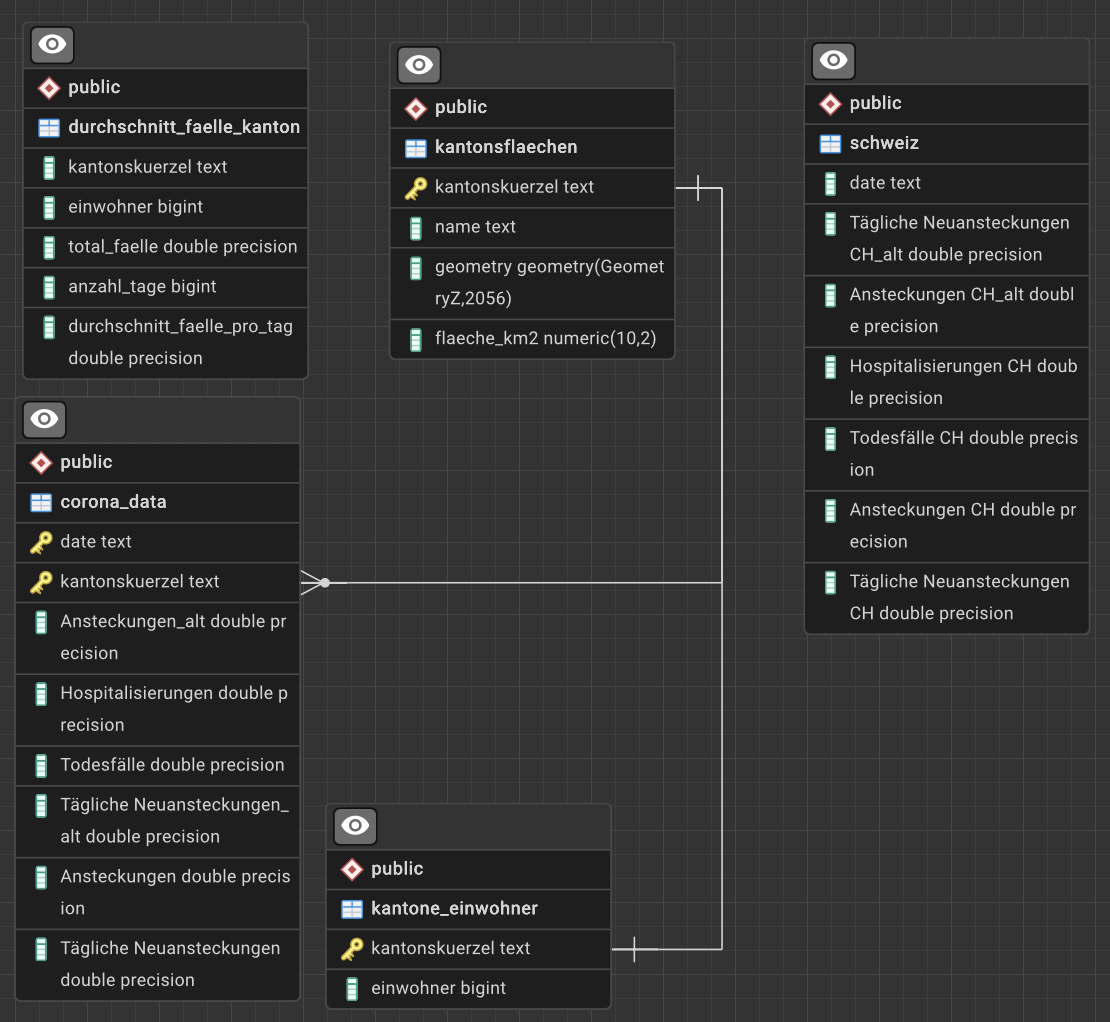
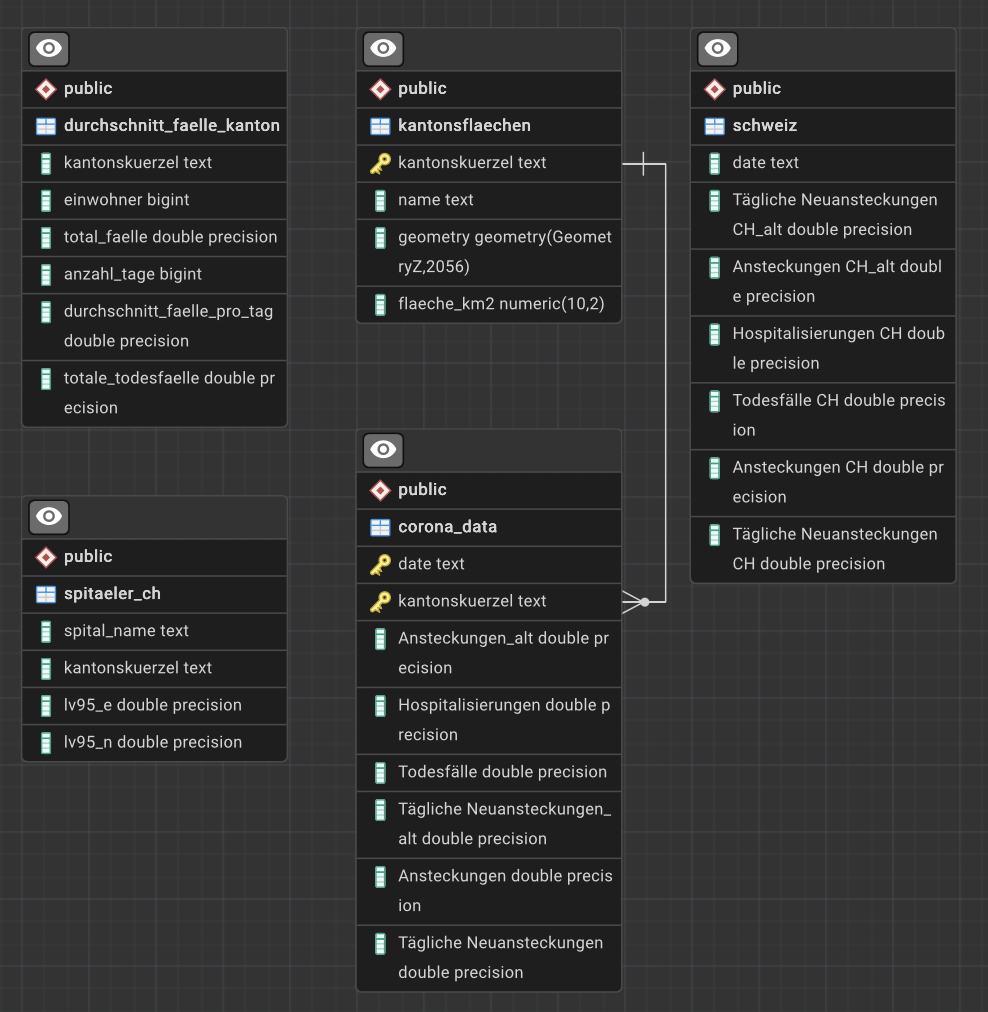
Bilder / GIFs in GitHub Page einfügen

diff --git a/client/src/components/Header/Header_display.jsx b/client/src/components/Header/Header_display.jsx
@@ -1,5 +1,6 @@
 import {useState} from "react";
 import IconButton from '@mui/material/IconButton';
+import CloseIcon from "@mui/icons-material/Close";
 import InfoIcon from "@mui/icons-material/Info";
 import HomeIcon from "@mui/icons-material/Home";
 import Stack from '@mui/material/Stack';
@@ -93,41 +94,71 @@ function Header({thema, setThema, info, setInfo, kanton, setKanton}) {
           </IconButton>
         </Tooltip>
 
-        <Dialog open={info} onClose={() => setInfo(false)}>
+        <Dialog open={info}>
           <DialogTitle>
             <h3>Informationen zur Webseite</h3>
+            <IconButton
+              aria-label="close"
+              onClick={() => setInfo(false)}
+              sx={{
+                position: "absolute",
+                right: 8,
+                top: 8,
+                color: "grey",
+              }}>
+              <CloseIcon />
+            </IconButton>
           </DialogTitle>
           <DialogContent>
             <Typography>
               Autorinnen: Aurelia Weickgenannt und Pascal Schmid
               <br />
               <br />
-              Fokusfrage: 
+              Fokusfrage: Wie hat sich die Coronapandemie in der Schweiz ausgebreitet bzw. verlaufen?
               <br />
               <br />
-              Weitere Informationen siehe README.md file.
+              <a
+                href="https://github.com/Aurelia-ew/4230-ProjektGeoinformatik_CoronaDashboard/tree/main"
+                target="_blank"
+                rel="noopener noreferrer">
+                Hier gehts zum GitHub Repository
+              </a>
+              <br />
+              Die Instalationsanleitung für die Webseite und alle zugehörigen Tools ist im Readme im GitHub Repository zu finden.
               <br />
               <br />
-              Datenquelle Gesamtdatensatz: 
+              <a
+                href="https://aurelia-ew.github.io/4230-ProjektGeoinformatik_CoronaDashboard/"
+                target="_blank"
+                rel="noopener noreferrer">
+                Hier gehts zur GitHub Page
+              </a>
+              <br />
+              Auf der GitHub Page sind die Funktionen der einzelnen Komponenten nochmal beschrieben. 
+              Zusätzlich sind auch Informationen zu den Daten, dem Backend und den Schnittstellen zu finden.
+              <br />
             </Typography>
           </DialogContent>
-          <DialogActions>
-            <Button variant="contained" onClick={() => setInfo(false)}>
-              Schliessen
-            </Button>
-          </DialogActions>
         </Dialog>
 
-        <Dialog open={virusOpen} onClose={() => setVirusOpen(false)} maxWidth="md">
-          <DialogTitle> Easter Egg</DialogTitle>
+        <Dialog open={virusOpen}  maxWidth="md">
+          <DialogTitle> 
+            <h3>Cheers und bleibt gesunt :)</h3>
+            <IconButton
+              aria-label="close"
+              onClick={() => setVirusOpen(false)}
+              sx={{
+                position: "absolute",
+                right: 8,
+                top: 8,
+                color: "grey",
+              }}>
+              <CloseIcon />
+            </IconButton>
+          </DialogTitle>
           <DialogContent>
             <img src="public/Scrat_Flasche.png" alt="Scrat mit Flasche" style={{ width:"100%", height: "auto"}}/>
           </DialogContent>
-          <DialogActions>
-            <Button variant="contained" onClick={() => setVirusOpen(false)}>
-              Schliessen
-            </Button>
-          </DialogActions>
         </Dialog>
       </Stack>
     </header>

diff --git a/docs/Funktionen_Footer.md b/docs/Funktionen_Footer.md
@@ -6,20 +6,20 @@ title: Funktionen im Footer
 ## Funktionen im Footer
 Im Footer wird das aktuell ausgewählte Datum angezeigt. Die dargestellten Werte in der Karte entsprechen jeweils den Daten dieses Tages, beispielsweise den gemeldeten Fallzahlen.
 
-Bild
+![Footer_Fallzahlen](Bilder/Footer_Fallzahlen.png)
 
 Über das Kalendersymbol kann ein beliebiges Datum zwischen dem Beginn der Pandemie in der Schweiz am 01.02.2020 und dem Ende der Datenerfassung am 05.05.2024 ausgewählt werden.
 
-Bild
+![Footer_Datum](GIFs/Footer_Datum.gif)
 
 Mit dem Playsymbol vor dem Slider kann die Zeitleiste automatisch abgespielt werden. Während sich der Slider bewegt, aktualisieren sich die Daten auf der Karte fortlaufend. Dadurch lässt sich der räumliche Verlauf der Pandemie im Zeitverlauf nachvollziehen.
 
-Video
+![Footer_Slider](GIFs/Footer_Slider.gif)
 
 Der Slider kann auch manuell bewegt werden, um ein bestimmtes Datum auszuwählen. 
 
-Video
+![Footer_Slider_manuell](GIFs/Footer_Slider_manuell.gif)
 
 Gleichzeitig dient er als Zeitstrahl: Graue Punkte markieren wichtige Beschlüsse und Massnahmen des Bundes während der Pandemie. Wird mit der Maus über einen dieser Punkte gefahren, erscheinen zusätzliche Informationen zum jeweiligen Ereignis.
 
-Video
+![Footer_Zeitstrahl](GIFs/Footer_Zeitstrahl.gif)

diff --git a/docs/Funktionen_Sidebar.md b/docs/Funktionen_Sidebar.md
@@ -6,13 +6,13 @@ title: Funktionen der Sidebar
 ## Funktionen in der Sidebar
 In der Sidebar werden verschiedene Informationen zum ausgewählten Kanton angezeigt. Dazu gehören unter anderem die Kantonsfläche, die Einwohnerzahl, die Anzahl der erfassten Tage, die gesamten Ansteckungen während der Pandemie, die durchschnittlichen täglichen Ansteckungen sowie die gesamten Todesfälle.
 
-Bild
+![Sidebar_Infos](Bilder/Sidebar_Infos.png)
 
 Ein Kanton kann entweder durch einen Klick auf der Karte (siehe Abschnitt Karte) oder über das Filtersymbol auf der rechten Seite der Sidebar ausgewählt werden.
 
-Video
+![Sidebar_Filter](GIFs/Sidebar_Filter.gif)
 
 Unterhalb der Informationen wird – abhängig vom gewählten Themenbereich – ein passendes Diagramm dargestellt. Die y-Achse zeigt dabei den jeweiligen Wert, beispielsweise die Anzahl der Todesfälle, während die x-Achse den zeitlichen Verlauf abbildet.
 Besondere Ereignisse wie Lockdowns oder Beschlüsse des Bundes werden zusätzlich als gestrichelte vertikale Linien im Diagramm markiert. Sie kennzeichnen den Zeitpunkt der Einführung oder Bekanntgabe der jeweiligen Massnahmen. Weitere Informationen zu diesen Ereignissen können im Slider eingesehen werden.
 
-Bild/Video
+![Sidebar_Diagramm](GIFs/Sidebar_Diagramm.gif)

diff --git a/docs/Funktionen_Karte.md b/docs/Funktionen_Karte.md
@@ -6,14 +6,14 @@ title: Funktionen in der Karte
 ## Funktionen in der Karte
 Die Karte zeigt alle Kantone der Schweiz sowie Liechtenstein. Je nach ausgewähltem Themenbereich werden die Kantone unterschiedlich eingefärbt.
 
-Bilder
+![Header_Themen](GIFs/Header_Themen.gif)
 
 Die Farbintensität richtet sich nach der Höhe des jeweiligen Wertes. Dafür wird der gesamte Wertebereich – vom kleinsten bis zum grössten Wert – berechnet und anschliessend in sechs gleich grosse Klassen unterteilt.
 
 Durch einen Klick auf einen Kanton kann dieser ausgewählt werden. Die Karte zoomt daraufhin auf den entsprechenden Bereich, und der ausgewählte Kanton wird hervorgehoben.
 
-Video
+![Karte_Klick](GIFs/Karte_Klick.gif)
 
 Wenn mit der Maus über einen Kanton gefahren wird, erscheint dessen Name als Hinweis auf der Karte.
 
-Video
+![Karte_Hover](GIFs/Karte_Hover.gif)

diff --git a/docs/Funktionen_Header.md b/docs/Funktionen_Header.md
@@ -17,12 +17,12 @@ Im Header kann zwischen vier verschiedenen Themenbereichen gewählt werden:
 * **Hospitalisierungen:**  
     Hier werden die täglichen Hospitalisierungen pro Kanton dargestellt. Die Werte erscheinen in Form eines orangen Balkendiagramms.
 
-Video
+![Header_Themen](GIFs/Header_Themen.gif)
 
 Über das Haussymbol auf der rechten Seite können jederzeit die ursprünglichen Einstellungen wiederhergestellt werden. 
 
-Video
+![Header_Haus](GIFs/Header_Haussymbol.gif)
 
 Der Infobutton enthält zusätzliche Informationen zum Dashboard sowie zu den verwendeten Datenquellen. 
 
-Video
+![Header_Info](GIFs/Header_Info.gif)
